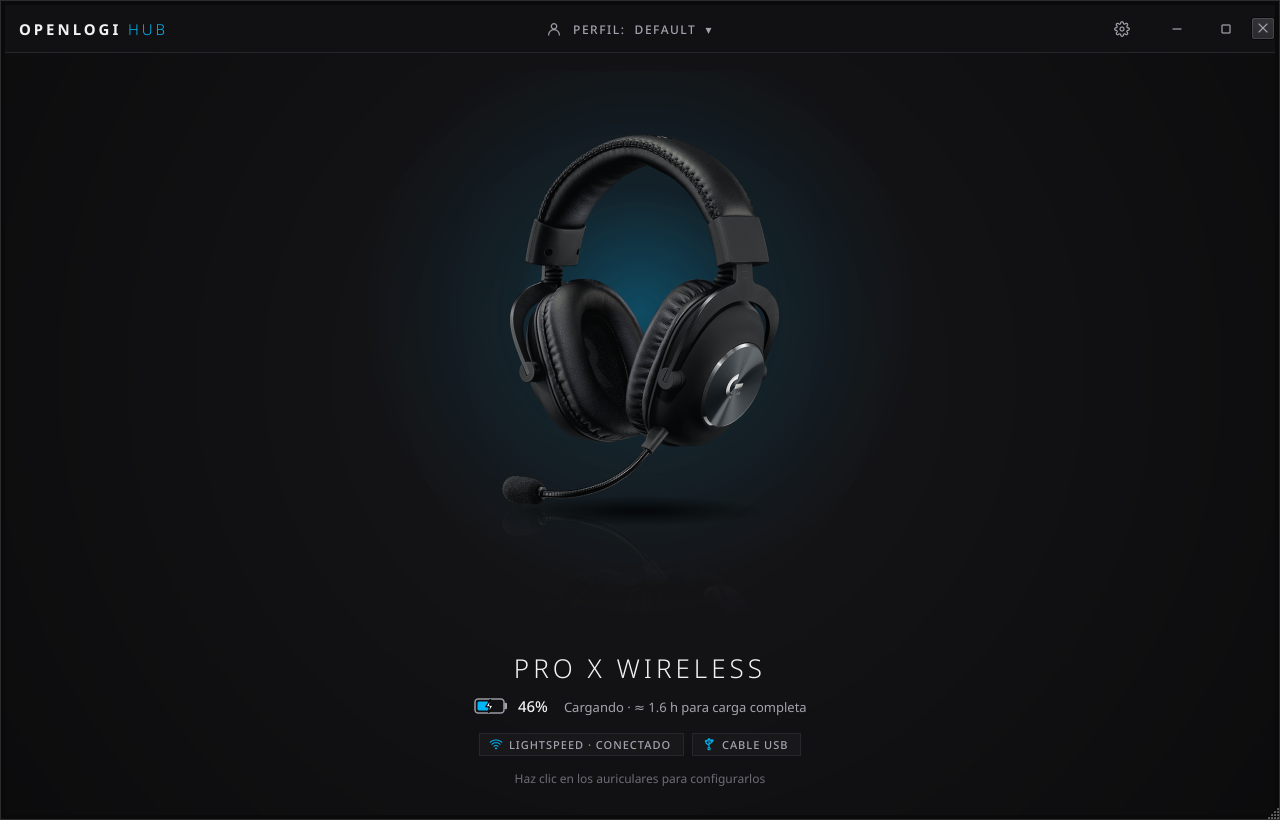
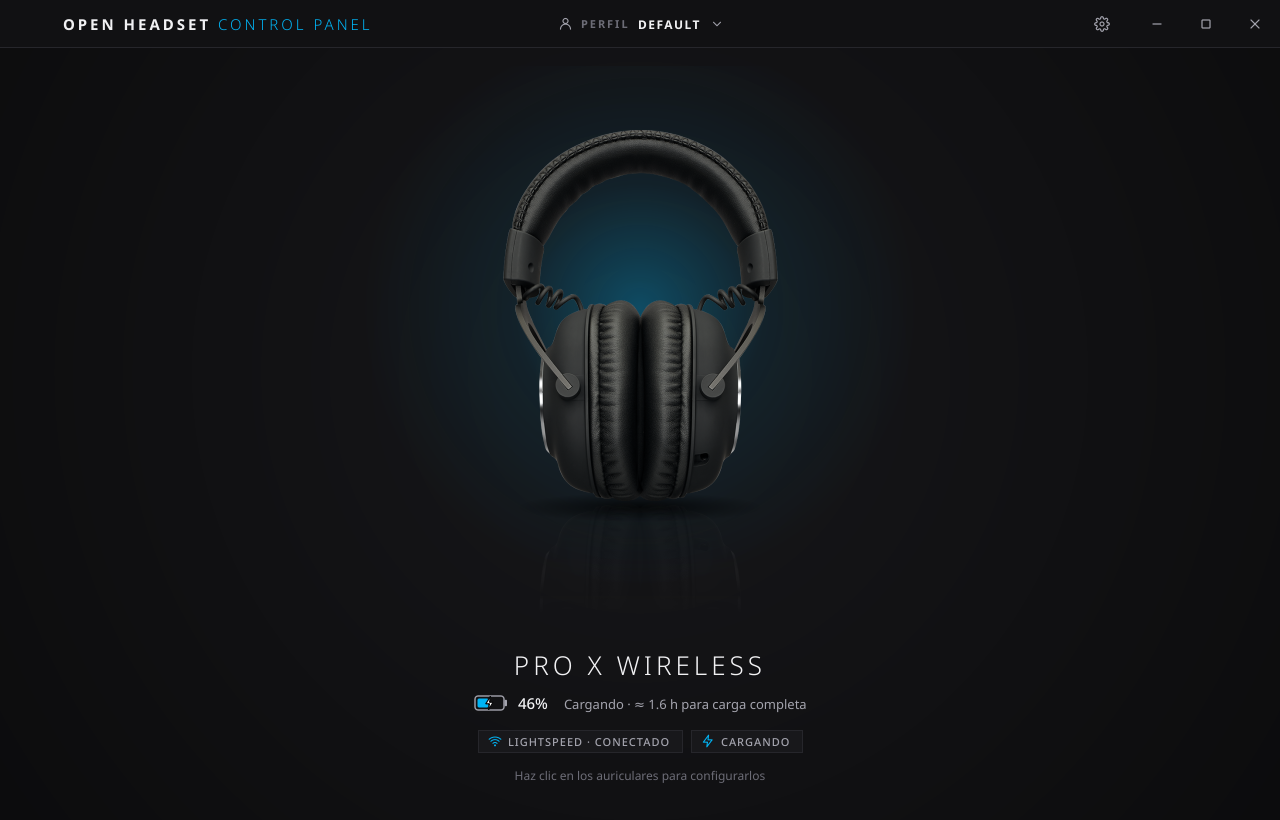
docs: screenshots with the new name, plus the Headset page

diff --git a/README.md b/README.md
@@ -14,6 +14,8 @@ Habla directamente con el auricular a través de `/dev/hidraw` (sin hidapi, sin 
 | ![EQ](docs/screenshots/eq.png) | ![Mic](docs/screenshots/mic.png) |
 | **Sonido envolvente** | **Dispositivo** |
 | ![7.1](docs/screenshots/surround.png) | ![Info](docs/screenshots/info.png) |
+| **Auriculares (otras marcas)** | **Ajustes** |
+| ![Auriculares](docs/screenshots/headset.png) | ![Ajustes](docs/screenshots/settings.png) |
 
 ## Auriculares compatibles
 
